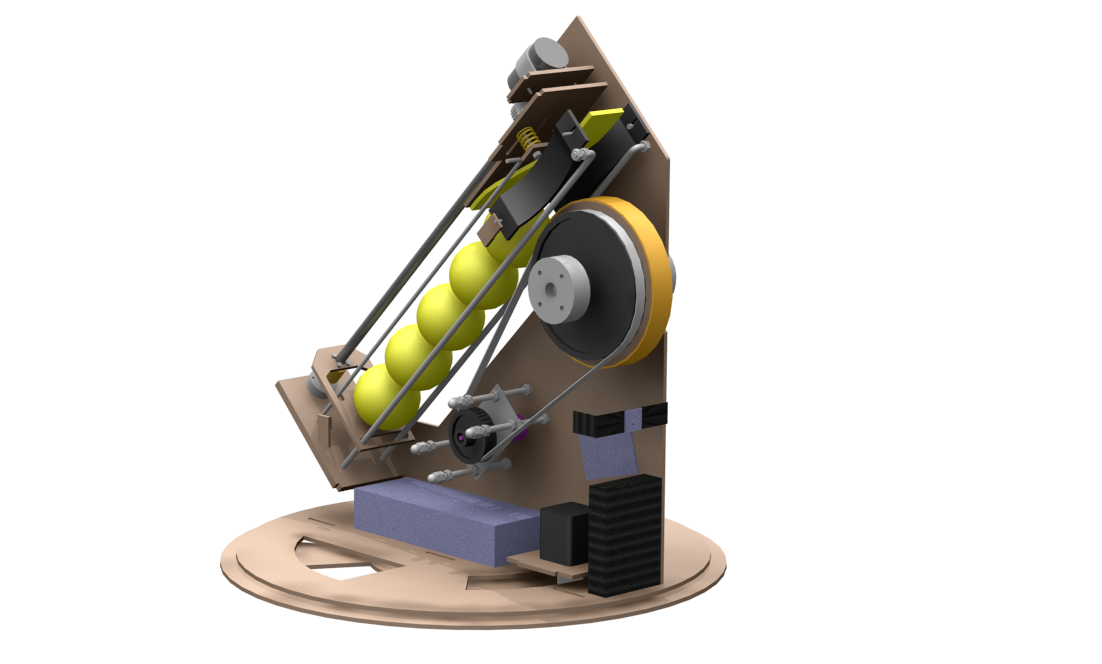
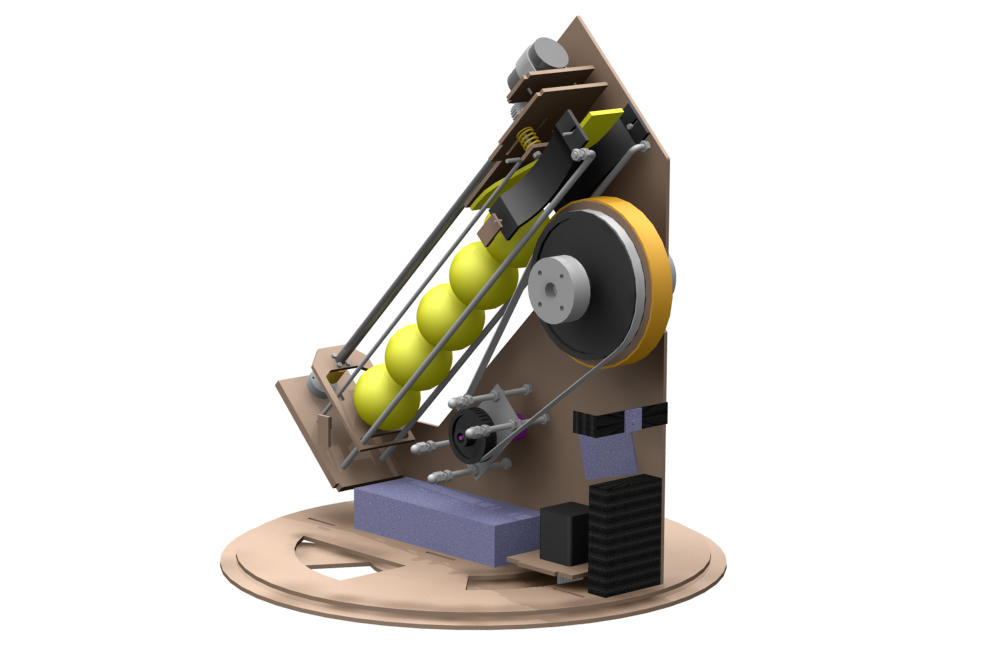
bilder

Changed region(s): [[0.1816, 0.0301, 0.7568, 0.9639]]

diff --git a/tex/doku/content/ballfuehrung.tex b/tex/doku/content/ballfuehrung.tex
@@ -1,4 +1,10 @@
 \subsubsection{Anpressvorrichtung}
+\begin{figure}[h!]
+	\centering
+	\includegraphics[width=\linewidth]{../../fig/Render-Anpressvorrichtungx}
+	\caption{Anpressvorrichtung}
+	\label{fig:Anpressvorrichtung}
+\end{figure}
 
 \paragraph{Komponentenbeschrieb\\}
 Damit mit verschiedenen Tennisballdurchmessern zuverlässig geschossen werden kann, ist die Anpressvorrichtung mit einer Federkonstruktion ausgestattet. Der Anpressdruck der Tennisbälle auf das Drehrad wird so konstant gehalten. Da die gewählte Bauform sensibel auf Änderungen des Anpressdruckes reagiert, musste dieser Komponente besondere Beachtung geschenkt werden. 

diff --git a/tex/doku/content/ausrichtung-drehturm.tex b/tex/doku/content/ausrichtung-drehturm.tex
@@ -1,7 +1,7 @@
 \subsubsection{Ausrichtung Drehturm}
 \begin{figure}[h!]
 	\centering
-	\includegraphics[width=\linewidth]{../../fig/Drehmechanismus}
+		\includegraphics[width=\linewidth]{../../fig/Render-Drehmechanismusx}
 	\caption{Drehmechanismus}
 	\label{fig:Drehmechanismus}
 \end{figure}

diff --git a/tex/doku/content/wurfmechanismus.tex b/tex/doku/content/wurfmechanismus.tex
@@ -1,7 +1,7 @@
 \subsubsection{Wurfmechanismus}
 \begin{figure}[h!]
 	\centering
-	\includegraphics[width=\linewidth]{../../fig/Wurfmechanismus}
+	\includegraphics[width=\linewidth]{../../fig/Render-Wurfmechanismusx}
 	\caption{Wurfmechanismus}
 	\label{fig:Wurfmechanismus}
 \end{figure}

diff --git a/tex/doku/content/komplettsystem.tex b/tex/doku/content/komplettsystem.tex
@@ -1,7 +1,7 @@
 \subsubsection{Komplettsystem}
 \begin{figure}[h!]
 	\centering
-	\includegraphics[width=\linewidth]{../../fig/Komplettsystem}
+	\includegraphics[width=\linewidth]{../../fig/Render_Komplettsystem_5}
 	\caption{Komplettsystem}
 	\label{fig:Komplettsystem}
 \end{figure}

diff --git a/tex/doku/content/ballnachschub.tex b/tex/doku/content/ballnachschub.tex
@@ -1,7 +1,7 @@
 \subsubsection{Ballnachschub}
 \begin{figure}[h!]
 	\centering
-	\includegraphics[width=\linewidth]{../../fig/Ballnachschub}
+	\includegraphics[width=\linewidth]{../../fig/Render-Ballnachschubx}
 	\caption{Ballnachschub}
 	\label{fig:Ballnachschub}
 \end{figure}

diff --git a/tex/doku/content/drehturm.tex b/tex/doku/content/drehturm.tex
@@ -1,7 +1,7 @@
 \subsubsection{Drehturm}
 \begin{figure}[h!]
 	\centering
-	\includegraphics[width=\linewidth]{../../fig/Drehturm}
+	\includegraphics[width=\linewidth]{../../fig/Render-Drehturmx}
 	\caption{Drehturm}
 	\label{fig:Drehturm}
 \end{figure}

diff --git a/tex/doku/content/uebersichtszeichnungen.tex b/tex/doku/content/uebersichtszeichnungen.tex
@@ -1,1 +1,7 @@
 \subsection{Übersichtszeichnung}
+\begin{figure}[h!]
+	\centering
+	\includegraphics[width=\linewidth]{../../fig/Render-Komplettsystem}
+	\caption{Übersichtszeichnung}
+	\label{fig:Übersichtszeichnung}
+\end{figure}
